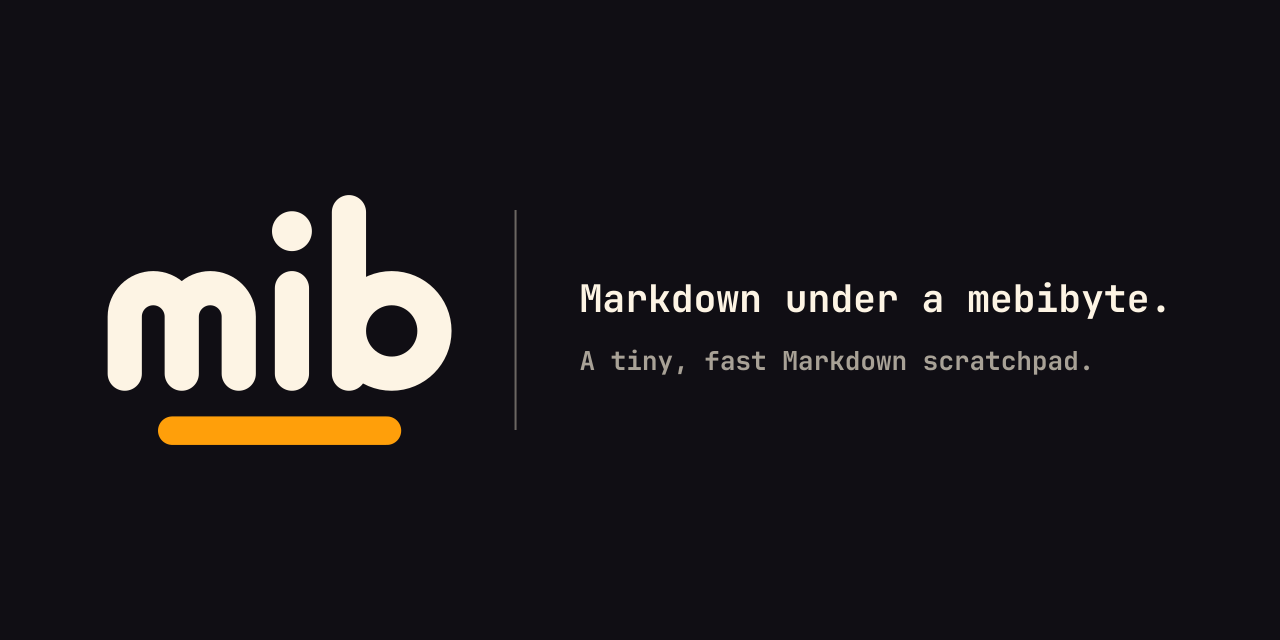
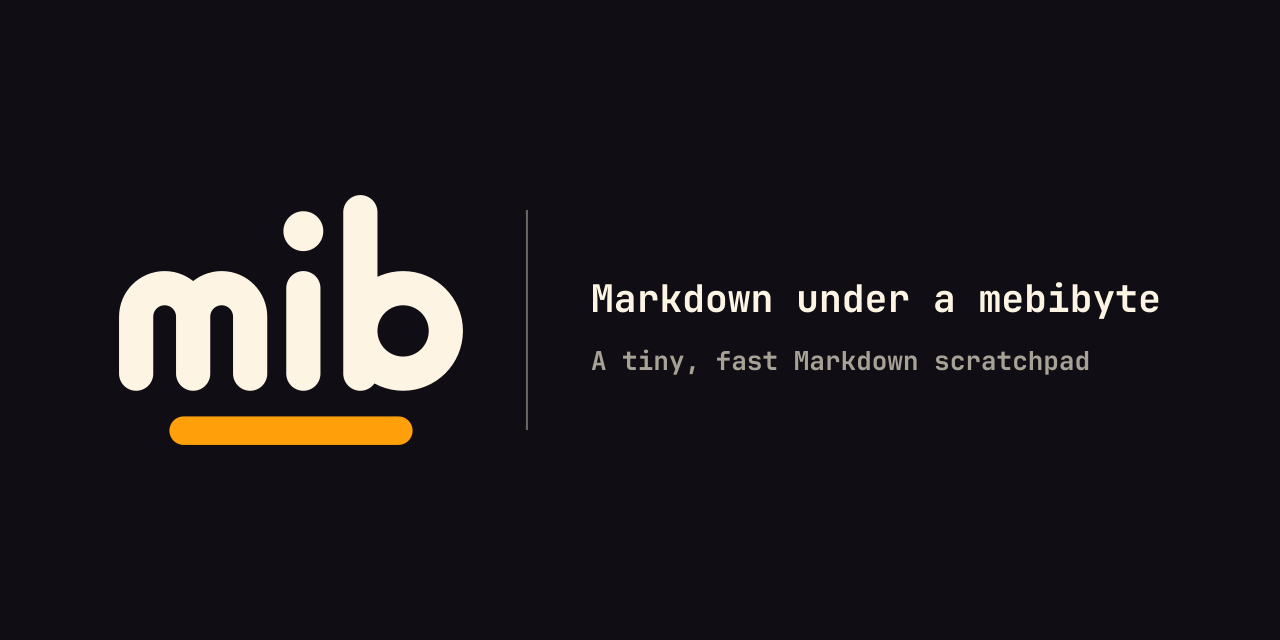
Drop the full stop from the tagline, as 'Markdown under a mebibyte'

diff --git a/tools/brand.py b/tools/brand.py
@@ -94,7 +94,7 @@ def svg(width, height, body, title="mib"):
 
 def lockup(text_colour, title):
     """Wordmark over the tagline, on a transparent background, for the README header."""
-    tagline, width = text_path("Markdown under a mebibyte.", text_colour, 28, 0, 0)
+    tagline, width = text_path("Markdown under a mebibyte", text_colour, 28, 0, 0)
     pad, scale = 8, 0.8
     mark_height = 263 * scale  # ascender to the bottom of the bar
     baseline = pad + mark_height + 52
@@ -128,8 +128,8 @@ def social():
     description. Everything sits well inside GitHub's cropping margin."""
     w, h, scale, gap = 1280, 640, 0.95, 64
     mark_w, mark_h = 362 * scale, 263 * scale
-    tagline, tagline_w = text_path("Markdown under a mebibyte.", CREAM, 38, 0, 0)
-    line, _ = text_path("A tiny, fast Markdown scratchpad.", MUTED, 26, 0, 0)
+    tagline, tagline_w = text_path("Markdown under a mebibyte", CREAM, 38, 0, 0)
+    line, _ = text_path("A tiny, fast Markdown scratchpad", MUTED, 26, 0, 0)
     left = (w - (mark_w + 2 * gap + tagline_w)) / 2
     divider = left + mark_w + gap
     text_x = divider + gap

diff --git a/src/main.c b/src/main.c
@@ -6,7 +6,7 @@
 int app_main(int argc, char **argv)
 {
     if (argc == 2 && (!strcmp(argv[1], "--help") || !strcmp(argv[1], "-h"))) {
-        platform_report("mib: Markdown under a mebibyte.\n\nUsage: mib\n"
+        platform_report("mib: Markdown under a mebibyte\n\nUsage: mib\n"
                         "Opens the nine pages, 1/ to 9/, in $MIB_DIR or ~/Documents/mib (~/mib "
                         "without\nDocuments), on the page shown when it last closed. Alt+1 to "
                         "Alt+9 switch pages.\nSave with :w or Ctrl+S.",
